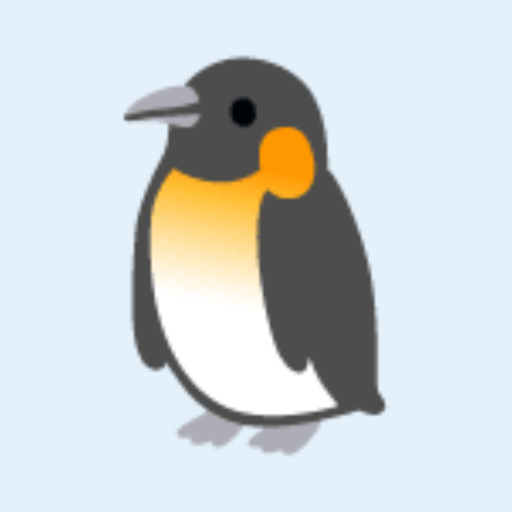
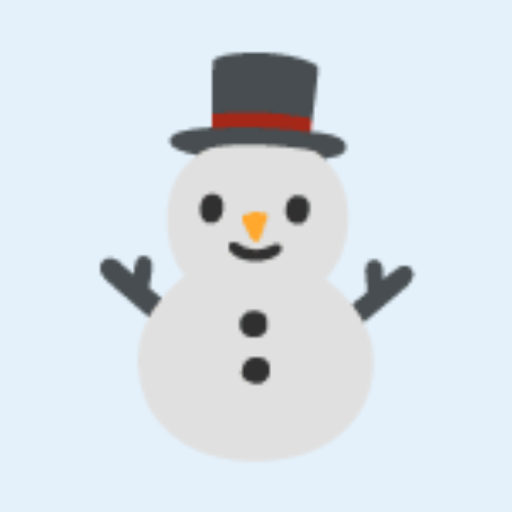
冬は雪だるまが氷を押す形にする
主人公を⛄、荷物を🧊に入れ替え。アイコンも⛄にした。

Claude-Session: https://claude.ai/code/session_01RoNZTmHrjmAjHdLLeAM9DZ

Changed region(s): [[0.1875, 0.0938, 0.8125, 0.9062]]

diff --git a/warehouse/index.html b/warehouse/index.html
@@ -527,7 +527,7 @@ body:not(.replaying) #btnHistExit{display:none}
      ?history=1 … クリア履歴を開いた状態で始める(右下のボタンと同じ)
      ?skin=beetle   … フンコロガシ。🐥→🪲 📦→💩
      ?skin=squirrel … リスのどんぐり集め。🐥→🐿 📦→🌰
-     ?skin=winter   … 冬。🐥→🐧 📦→⛄
+     ?skin=winter   … 冬。🐥→⛄ 📦→🧊
      ?skin=normal   … ふつうに戻す (どれも端末に覚えさせる) */
 const QS=new URLSearchParams(location.search);
 // クエリを付けられない場所(埋め込みプレビューなど)からも入れるよう、
@@ -543,7 +543,7 @@ const SKINS={
   normal:  {man:'🐥',  box:'📦', label:'ふつう',       title:'倉庫パズル',   icon:''},
   beetle:  {man:'🪲',  box:'💩', label:'フンコロガシ', title:'フンコロガシ', icon:'-beetle'},
   squirrel:{man:'🐿', box:'🌰', label:'リス',         title:'どんぐり',     icon:'-squirrel'},
-  winter:  {man:'🐧',  box:'⛄', label:'冬',           title:'ゆきだるま',   icon:'-winter'},
+  winter:  {man:'⛄',  box:'🧊', label:'冬',           title:'ゆきだるま',   icon:'-winter'},
 };
 const SKIN_ORDER=['normal','beetle','squirrel','winter'];
 (function(){

diff --git a/warehouse/icon-shot.html b/warehouse/icon-shot.html
@@ -52,7 +52,7 @@
     ['ふつう',      '📦',  '#eef2f9'],
     ['フンコロガシ','🪲',  '#f0e2c0'],
     ['リス',        '🐿', '#eaf1d8'],
-    ['冬',          '🐧',  '#e4f1fb'],
+    ['冬',          '⛄',  '#e4f1fb'],
   ];
   // ゲームで使っている色。先頭が床の色
   const GREYS = ['#eef2f9','#f0e2c0','#eaf1d8','#e4f1fb','#f6f8fc','#ffffff','#55637f','#3f4c66'];
